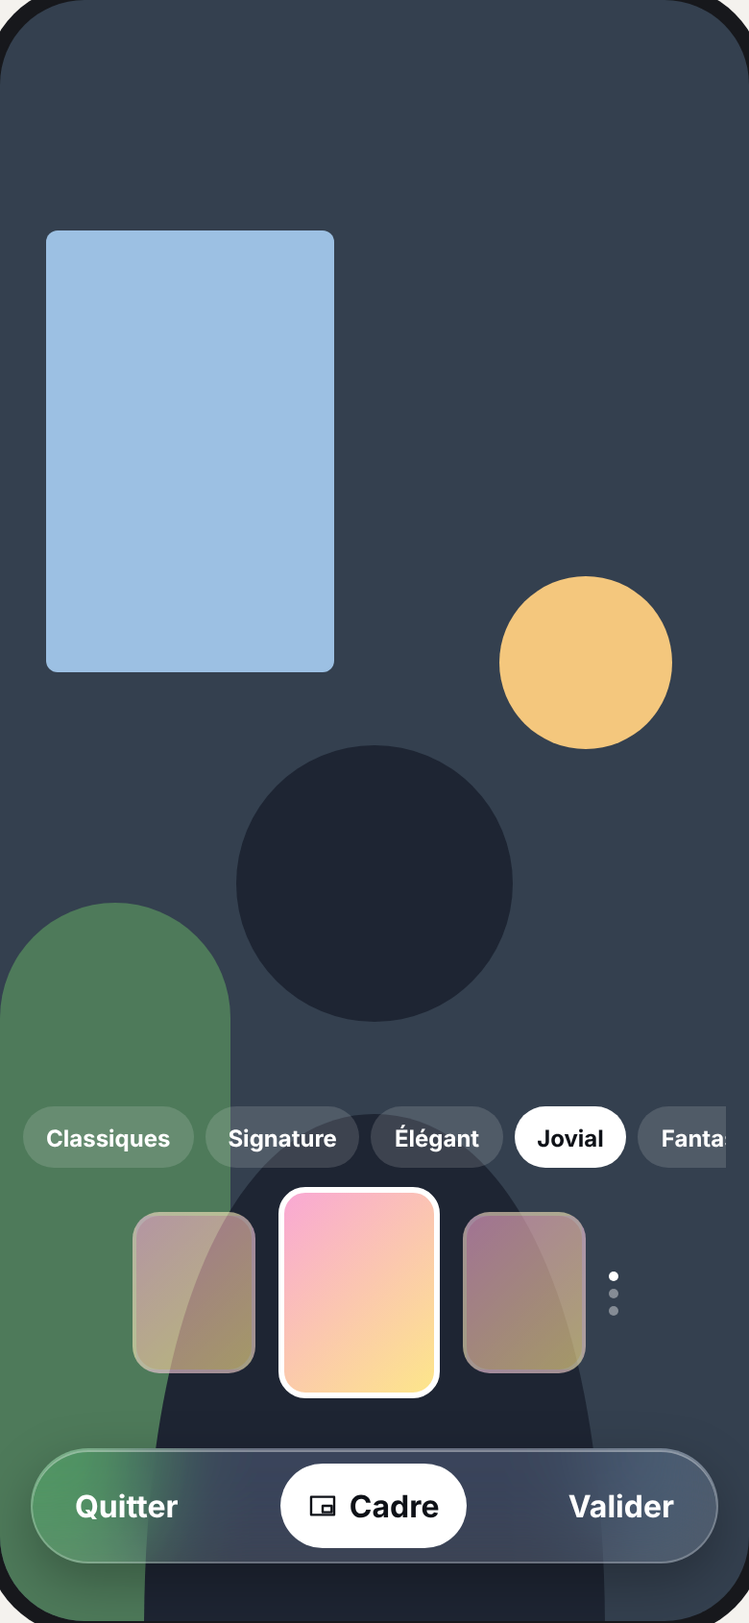
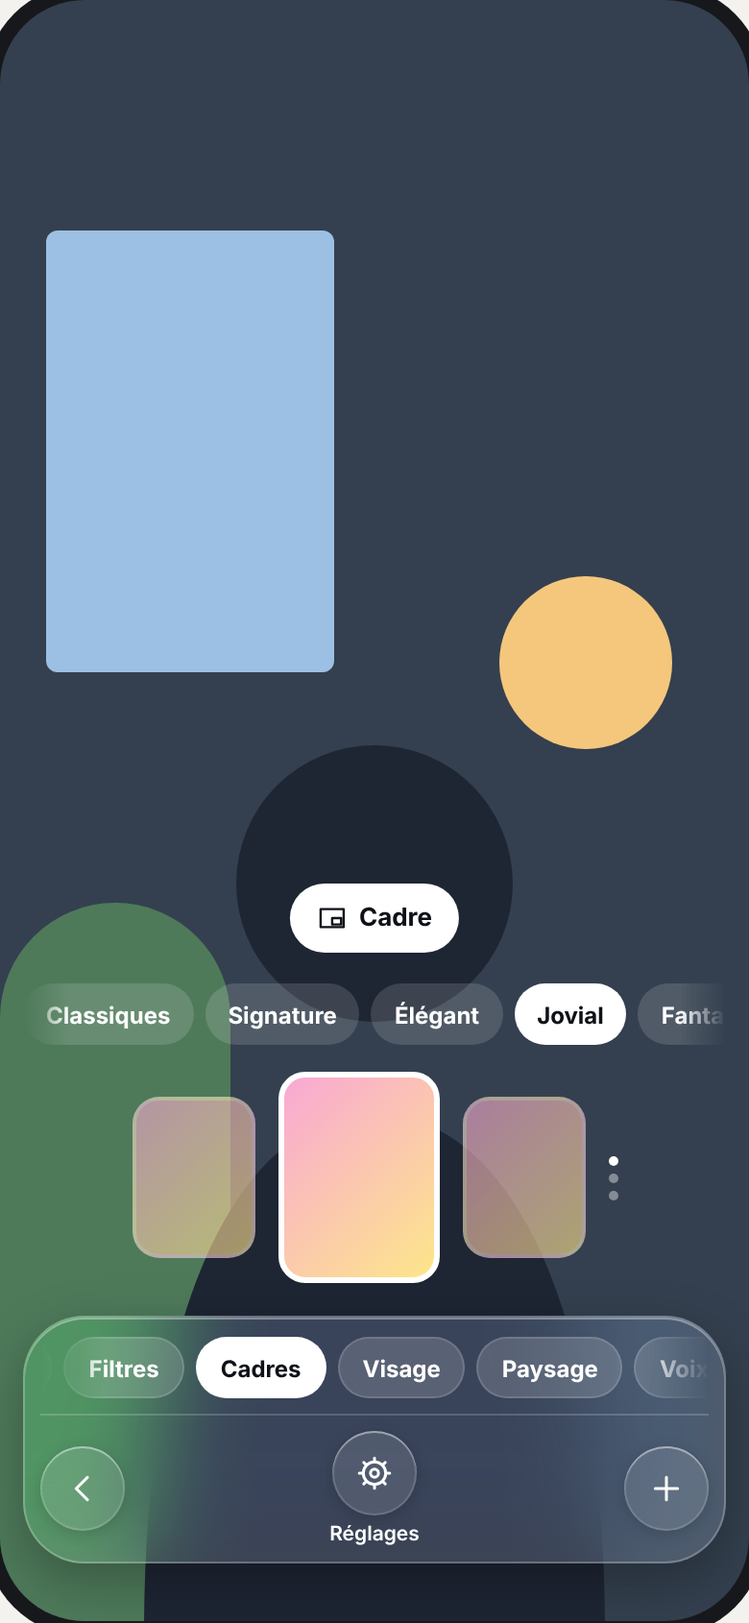
docs(planche-appels): la barre du Montage est celle d'Effets, ‹ · Réglages · (+) (#16979)
Décision porteur du 2026-11-13 : effets, filtres et cadres sont une
seule famille d'outils. Loi 14 : validation automatique, barre qui
revient au menu de base après chaque choix, pile de trois couches au
plus, appui long sur (+) pour lister et retirer un effet appliqué. La
phrase « Montage garde Quitter · Réglages · Valider » est retirée.
C1 redessinée (puces « Cadres » pressée, ‹ · Réglages · (+)), capture
régénérée par capture.mjs ; les 43 autres captures sont inchangées
au pixel près et ne sont pas réécrites.

Refs #16979

Claude-Session: https://claude.ai/code/session_015SWXf7WvNYyQX5o6rHgc69

Changed region(s): [[0.0308, 0.5231, 0.9846, 0.9538]]

diff --git a/docs/product/appels-vue-finale/planche.html b/docs/product/appels-vue-finale/planche.html
@@ -139,7 +139,7 @@ const S=[
 {id:'P5',t:'Toucher une phrase : l’original',d:'La phrase touchée déplie son original dessous, en encre secondaire. Retoucher le replie.',html:phone(scene()+head('Awa · 04:12')+self()+caps([T('awa','Tu m’entends bien ? Le son coupait tout à l’heure.',{tag:'EN → FR',orig:'Can you hear me? The sound kept cutting out earlier.'}),T('moi','Oui, c’est net maintenant.')]))},
 {id:'P6',t:'Journal pendant l’appel',d:'« Journal » ouvre TOUT l’appel, rien de tronqué : qui (sa couleur), quand, la phrase servie, l’original sous la phrase qu’on touche, dans le même ordre que la bande. Il s’ouvre DANS la pilule, à la place des sous-titres, et défile librement ; « Revenir au direct » quand on a remonté. La bascule Traduit · Original de sa tête fait passer TOUT le journal dans l’autre texte ; la bande des sous-titres reste dans ma langue. Ma vignette garde sa place en haut à droite.',html:phone(scene()+head('Awa · 04:12')+self()+journalPill(J,{live:true}))},
 {id:'P7',t:'Micro coupé',d:'Le micro barré passe en disque blanc. Micro coupé = ma parole n’est plus transcrite (#8475).',html:phone(scene()+head('Awa · 04:12')+self()+pill({micOff:true}))},
-{id:'P8',t:'Effets de ma caméra',d:'« Effets » emprunte au composer (#17406). MA caméra passe en plein écran, les autres en bandeau. Les sous-titres restent, au-dessus des looks, dans un verre sans la rangée de base (loi 11). Les looks (filtres, cadres, effets) se choisissent en surimpression sur l’image : la case au centre est choisie, à pleine taille, les voisines plus petites. La barre du bas grandit par morphisme et porte les puces qui trient les looks (Tout · Filtres · Cadres · Visage · Paysage · Voix…) : elles défilent à l’horizontale sans coupure, en s’effaçant toujours en fondu à gauche comme à droite (#17409). Le look choisi s’applique tout de suite : il n’y a pas de « Valider ». La rangée de base parle la langue du composer : ‹ revient à l’appel, Réglages (l’engrenage, légendé, distinct du glyphe d’Effets) ouvre P8b, et (+) ajoute un look par-dessus le précédent pour les cumuler. Un mode libère l’écran : l’en-tête se masque (#8578).',html:phone(`<div style="position:absolute;inset:0;background:#445B4F"></div><svg style="position:absolute;left:75px;top:260px" width="240" height="600" viewBox="0 0 240 600" aria-hidden="true"><circle cx="120" cy="110" r="72" fill="#2c3b33"/><path d="M0 600c0-200 50-330 120-330s120 130 120 330z" fill="#2c3b33"/></svg>`+`<div style="position:absolute;right:12px;top:76px;display:flex;flex-direction:column;gap:6px"><div class="tile" style="width:64px;height:86px;padding:4px;background:#6B5A48;border-color:var(--awa)"><span class="name glass" style="font-size:10px;padding:2px 6px">Awa</span></div></div><div style="position:absolute;left:0;right:0;bottom:176px;display:flex;justify-content:center;align-items:center;gap:12px">${['Aucun','Doré','Lissage','Polaroid','Ange'].map((n,i)=>`<div style="display:flex;flex-direction:column;align-items:center;gap:6px;transform:scale(${i===2?1:.78});opacity:${i===2?1:.6}"><span style="width:64px;height:64px;border-radius:${i===3?'12px':'50%'};background:${['#445B4F','#b89a5a','#7a8f84','#e9e4d8','#c9b37a'][i]};${i===2?'box-shadow:0 0 0 3px #fff;':''}"></span><span style="font-size:11px;font-weight:600">${n}</span></div>`).join('')}</div><div class="glass" style="position:absolute;left:12px;right:12px;bottom:30px;border-radius:32px;padding:10px 8px 8px;display:flex;flex-direction:column;gap:8px"><div role="group" aria-label="Trier les looks" style="overflow:hidden;-webkit-mask-image:linear-gradient(90deg,transparent 0,#000 34px,#000 calc(100% - 34px),transparent 100%);mask-image:linear-gradient(90deg,transparent 0,#000 34px,#000 calc(100% - 34px),transparent 100%)"><div style="display:flex;gap:6px;width:max-content;transform:translateX(-46px)">${['Tout','Filtres','Cadres','Visage','Paysage','Voix','Ambiances'].map((n,i)=>`<span style="height:32px;padding:0 13px;border-radius:16px;font-size:12px;font-weight:700;display:flex;align-items:center;flex-shrink:0;${i===1?'background:#fff;color:#0E1117':'background:rgba(255,255,255,.16);box-shadow:inset 0 0 0 1px rgba(255,255,255,.14)'}">${n}</span>`).join('')}</div></div><div style="height:1px;background:rgba(255,255,255,.18)"></div>${effectsRow(false)}</div>`+caps([T('awa','Ce filtre te va bien, garde-le !',{tag:'EN → FR'})],{left:12,right:12,bottom:286,bare:true}))},
+{id:'P8',t:'Effets de ma caméra',d:'« Effets » emprunte au composer (#17406). MA caméra passe en plein écran, les autres en bandeau. Les sous-titres restent, au-dessus des looks, dans un verre sans la rangée de base (loi 11). Les looks (filtres, cadres, effets) se choisissent en surimpression sur l’image : la case au centre est choisie, à pleine taille, les voisines plus petites. La barre du bas grandit par morphisme et porte les puces qui trient les looks (Tout · Filtres · Cadres · Visage · Paysage · Voix…) : elles défilent à l’horizontale sans coupure, en s’effaçant toujours en fondu à gauche comme à droite (#17409). Le look choisi s’applique tout de suite : il n’y a pas de « Valider ». La rangée de base parle la langue du composer : ‹ revient à l’appel, Réglages (l’engrenage, légendé, distinct du glyphe d’Effets) ouvre P8b, et (+) ajoute un look par-dessus le précédent pour les cumuler, trois couches au plus ; un appui long sur (+) liste les effets appliqués pour en retirer un. Une fonction choisie, la barre revient à son menu de base ; Montage (C1) a la même barre (#16979). Un mode libère l’écran : l’en-tête se masque (#8578).',html:phone(`<div style="position:absolute;inset:0;background:#445B4F"></div><svg style="position:absolute;left:75px;top:260px" width="240" height="600" viewBox="0 0 240 600" aria-hidden="true"><circle cx="120" cy="110" r="72" fill="#2c3b33"/><path d="M0 600c0-200 50-330 120-330s120 130 120 330z" fill="#2c3b33"/></svg>`+`<div style="position:absolute;right:12px;top:76px;display:flex;flex-direction:column;gap:6px"><div class="tile" style="width:64px;height:86px;padding:4px;background:#6B5A48;border-color:var(--awa)"><span class="name glass" style="font-size:10px;padding:2px 6px">Awa</span></div></div><div style="position:absolute;left:0;right:0;bottom:176px;display:flex;justify-content:center;align-items:center;gap:12px">${['Aucun','Doré','Lissage','Polaroid','Ange'].map((n,i)=>`<div style="display:flex;flex-direction:column;align-items:center;gap:6px;transform:scale(${i===2?1:.78});opacity:${i===2?1:.6}"><span style="width:64px;height:64px;border-radius:${i===3?'12px':'50%'};background:${['#445B4F','#b89a5a','#7a8f84','#e9e4d8','#c9b37a'][i]};${i===2?'box-shadow:0 0 0 3px #fff;':''}"></span><span style="font-size:11px;font-weight:600">${n}</span></div>`).join('')}</div><div class="glass" style="position:absolute;left:12px;right:12px;bottom:30px;border-radius:32px;padding:10px 8px 8px;display:flex;flex-direction:column;gap:8px"><div role="group" aria-label="Trier les looks" style="overflow:hidden;-webkit-mask-image:linear-gradient(90deg,transparent 0,#000 34px,#000 calc(100% - 34px),transparent 100%);mask-image:linear-gradient(90deg,transparent 0,#000 34px,#000 calc(100% - 34px),transparent 100%)"><div style="display:flex;gap:6px;width:max-content;transform:translateX(-46px)">${['Tout','Filtres','Cadres','Visage','Paysage','Voix','Ambiances'].map((n,i)=>`<span style="height:32px;padding:0 13px;border-radius:16px;font-size:12px;font-weight:700;display:flex;align-items:center;flex-shrink:0;${i===1?'background:#fff;color:#0E1117':'background:rgba(255,255,255,.16);box-shadow:inset 0 0 0 1px rgba(255,255,255,.14)'}">${n}</span>`).join('')}</div></div><div style="height:1px;background:rgba(255,255,255,.18)"></div>${effectsRow(false)}</div>`+caps([T('awa','Ce filtre te va bien, garde-le !',{tag:'EN → FR'})],{left:12,right:12,bottom:286,bare:true}))},
 {id:'P8b',t:'Effets : réglages',d:'« Réglages » pose, à la place de la bande de looks, un verre séparé Luminosité · Flou du fond au-dessus de la barre. La barre perd ses puces et se resserre par morphisme sur ‹ · Réglages · (+), l’engrenage en disque blanc. Looks et puces partent en fondu pendant que le panneau monte depuis la barre (≈ 200 ms) ; Réduire les animations ⇒ fondu seul. Retoucher Réglages rend looks et puces par le chemin inverse. Les sous-titres restent au-dessus, dans un verre sans rangée (loi 11), et le bandeau des autres comme en P8.',html:phone(`<div style="position:absolute;inset:0;background:#445B4F"></div><svg style="position:absolute;left:75px;top:260px" width="240" height="600" viewBox="0 0 240 600" aria-hidden="true"><circle cx="120" cy="110" r="72" fill="#2c3b33"/><path d="M0 600c0-200 50-330 120-330s120 130 120 330z" fill="#2c3b33"/></svg>`+`<div style="position:absolute;right:12px;top:76px;display:flex;flex-direction:column;gap:6px"><div class="tile" style="width:64px;height:86px;padding:4px;background:#6B5A48;border-color:var(--awa)"><span class="name glass" style="font-size:10px;padding:2px 6px">Awa</span></div></div>`+`<div class="glass deep" role="group" aria-label="Réglages de mon image" style="position:absolute;left:16px;right:16px;bottom:118px;border-radius:24px;padding:14px 16px;display:flex;flex-direction:column;gap:14px"><label style="display:flex;flex-direction:column;gap:8px;font-size:13px;font-weight:600">Luminosité<span style="height:6px;border-radius:3px;background:linear-gradient(90deg,#fff 62%,rgba(255,255,255,.25) 62%)"></span></label><label style="display:flex;justify-content:space-between;align-items:center;font-size:13px;font-weight:600">Flou du fond<span style="width:50px;height:30px;border-radius:15px;background:#34C759;position:relative"><i style="position:absolute;right:3px;top:3px;width:24px;height:24px;border-radius:50%;background:#fff"></i></span></label></div><div class="glass" style="position:absolute;left:16px;right:16px;bottom:30px;border-radius:32px;padding:6px 8px">${effectsRow(true)}</div>`+caps([T('awa','Ce filtre te va bien, garde-le !',{tag:'EN → FR'})],{left:12,right:12,bottom:252,bare:true}))},
 ]},
 {h:'Duo audio, portrait',lead:'Sans vidéo, la personne au centre ; mêmes rails, même pilule. « Caméra » dans le rail gauche bascule l’appel en vidéo.',b:[
@@ -173,7 +173,7 @@ const S=[
 {id:'S2',t:'Retour dans l’appel pendant le partage',d:'Le bandeau « Vous partagez votre écran · Arrêter » reste sous l’en-tête ; mon partage ne passe jamais à la une chez moi.',html:phone(scene()+head('Awa · 04:12')+`<div class="glass" style="position:absolute;left:12px;right:12px;top:72px;height:52px;border-radius:26px;display:flex;align-items:center;justify-content:space-between;padding:0 6px 0 16px;background:rgba(217,45,32,.35)"><span style="font-size:14px;font-weight:600;display:flex;gap:8px;align-items:center">${ic('screen',16,'#fff')}Vous partagez votre écran</span><span style="height:40px;padding:0 14px;border-radius:20px;background:#fff;color:#B42318;font-size:13px;font-weight:700;display:flex;align-items:center">Arrêter</span></div>`+self({top:136})+pill())}
 ]},
 {h:'Cadres en direct (duo vidéo)',lead:'Un cadre habille les deux vidéos pendant tout l’appel. Je le choisis dans Montage, il s’applique chez moi et se PROPOSE à l’autre, qui l’accepte ou le refuse. Il tombe si l’appel passe à trois.',b:[
-{id:'C1',t:'Choisir un cadre',d:'Ambiances en puces, carrousel des cadres, balayage vertical pour ses déclinaisons, puis l’option « Cadre » : « Garde ce cadre autour des deux vidéos pendant tout l’appel, et le propose à votre correspondant ».',html:phone(scene()+`<div style="position:absolute;left:12px;right:12px;bottom:236px;display:flex;gap:6px;overflow:hidden">${['Classiques','Signature','Élégant','Jovial','Fantastique'].map((n,i)=>`<span style="height:32px;padding:0 12px;border-radius:16px;font-size:12px;font-weight:700;display:flex;align-items:center;flex-shrink:0;${i===3?'background:#fff;color:#0E1117':'background:rgba(255,255,255,.14)'}">${n}</span>`).join('')}</div><div style="position:absolute;left:0;right:0;bottom:116px;display:flex;justify-content:center;align-items:center;gap:12px">${[0,1,2].map(i=>`<span style="width:${i===1?84:64}px;height:${i===1?110:84}px;border-radius:14px;border:${i===1?'3px solid #fff':'2px solid rgba(255,255,255,.4)'};background:linear-gradient(135deg,#f9a8d4,#fde68a);opacity:${i===1?1:.6}"></span>`).join('')}<span style="display:flex;flex-direction:column;gap:4px"><i style="width:5px;height:5px;border-radius:50%;background:#fff"></i><i style="width:5px;height:5px;border-radius:50%;background:rgba(255,255,255,.4)"></i><i style="width:5px;height:5px;border-radius:50%;background:rgba(255,255,255,.4)"></i></span></div><div class="glass" style="position:absolute;left:16px;right:16px;bottom:30px;height:60px;border-radius:30px;display:flex;justify-content:space-between;align-items:center;padding:0 8px"><span style="padding:0 14px;font-weight:700">Quitter</span><span style="height:44px;padding:0 14px;border-radius:22px;background:#fff;color:#0E1117;font-weight:700;display:flex;align-items:center;gap:6px">${ic('pip',16,'#0E1117')}Cadre</span><span style="padding:0 14px;font-weight:700">Valider</span></div>`)},
+{id:'C1',t:'Choisir un cadre',d:'Montage parle la langue d’Effets (#16979) : filtres, cadres et effets sont UNE famille d’outils, avec la même barre et la même navigation qu’en P8. La barre porte les puces qui trient les looks, « Cadres » pressée, puis ‹ · Réglages · (+). Au-dessus, les ambiances en puces et le carrousel des cadres, balayage vertical pour ses déclinaisons. Le cadre touché s’applique tout de suite : il n’y a pas de « Valider ». L’option « Cadre », pressée en blanc, garde ce cadre autour des deux vidéos pendant tout l’appel et le propose à votre correspondant. Une fonction choisie, la barre revient à son menu de base. (+) empile un effet par-dessus, trois couches au plus ; un appui long sur (+) liste les effets appliqués pour en retirer un. ‹ revient à l’appel, les effets gardés.',html:phone(scene()+`<span style="position:absolute;left:50%;transform:translateX(-50%);bottom:348px;height:36px;padding:0 14px;border-radius:18px;background:#fff;color:#0E1117;font-size:13px;font-weight:700;display:flex;align-items:center;gap:6px" role="switch" aria-checked="true" aria-label="Cadre : le garder autour des deux vidéos et le proposer">${ic('pip',16,'#0E1117')}Cadre</span><div style="position:absolute;left:12px;right:12px;bottom:300px;display:flex;gap:6px;overflow:hidden;-webkit-mask-image:linear-gradient(90deg,transparent 0,#000 24px,#000 calc(100% - 24px),transparent 100%);mask-image:linear-gradient(90deg,transparent 0,#000 24px,#000 calc(100% - 24px),transparent 100%)">${['Classiques','Signature','Élégant','Jovial','Fantastique'].map((n,i)=>`<span style="height:32px;padding:0 12px;border-radius:16px;font-size:12px;font-weight:700;display:flex;align-items:center;flex-shrink:0;${i===3?'background:#fff;color:#0E1117':'background:rgba(255,255,255,.14)'}">${n}</span>`).join('')}</div><div style="position:absolute;left:0;right:0;bottom:176px;display:flex;justify-content:center;align-items:center;gap:12px">${[0,1,2].map(i=>`<span style="width:${i===1?84:64}px;height:${i===1?110:84}px;border-radius:14px;border:${i===1?'3px solid #fff':'2px solid rgba(255,255,255,.4)'};background:linear-gradient(135deg,#f9a8d4,#fde68a);opacity:${i===1?1:.6}"></span>`).join('')}<span style="display:flex;flex-direction:column;gap:4px"><i style="width:5px;height:5px;border-radius:50%;background:#fff"></i><i style="width:5px;height:5px;border-radius:50%;background:rgba(255,255,255,.4)"></i><i style="width:5px;height:5px;border-radius:50%;background:rgba(255,255,255,.4)"></i></span></div><div class="glass" style="position:absolute;left:12px;right:12px;bottom:30px;border-radius:32px;padding:10px 8px 8px;display:flex;flex-direction:column;gap:8px"><div role="group" aria-label="Trier les looks" style="overflow:hidden;-webkit-mask-image:linear-gradient(90deg,transparent 0,#000 34px,#000 calc(100% - 34px),transparent 100%);mask-image:linear-gradient(90deg,transparent 0,#000 34px,#000 calc(100% - 34px),transparent 100%)"><div style="display:flex;gap:6px;width:max-content;transform:translateX(-46px)">${['Tout','Filtres','Cadres','Visage','Paysage','Voix','Ambiances'].map((n,i)=>`<span style="height:32px;padding:0 13px;border-radius:16px;font-size:12px;font-weight:700;display:flex;align-items:center;flex-shrink:0;${i===2?'background:#fff;color:#0E1117':'background:rgba(255,255,255,.16);box-shadow:inset 0 0 0 1px rgba(255,255,255,.14)'}">${n}</span>`).join('')}</div></div><div style="height:1px;background:rgba(255,255,255,.18)"></div>${effectsRow(false)}</div>`)},
 {id:'C2',t:'Chez l’autre : la proposition',d:'Une carte de verre en haut ; rien ne change chez lui tant qu’il n’a pas accepté.',html:phone(scene()+head('Moi · 04:12')+self()+`<div class="glass deep" style="position:absolute;left:12px;right:12px;top:150px;border-radius:22px;padding:14px;display:flex;flex-direction:column;gap:12px"><span style="display:flex;gap:10px;align-items:center;font-size:14px;font-weight:600">${ic('pip',20,'#fff')}Awa vous propose le cadre « Jovial »</span><div style="display:flex;gap:8px"><span style="flex:1;height:44px;border-radius:22px;background:rgba(255,255,255,.16);display:flex;align-items:center;justify-content:center;font-weight:700">Non merci</span><span style="flex:1;height:44px;border-radius:22px;background:linear-gradient(90deg,#6366F1,#A855F7);display:flex;align-items:center;justify-content:center;font-weight:700">Appliquer</span></div></div>`+pill())},
 {id:'C3',t:'Cadre appliqué',d:'Le cadre entoure les deux vidéos (il ne prend aucun toucher). Chez qui l’a proposé, une capsule dit « Moi a appliqué votre cadre » ou « … garde son affichage ».',html:phone(`<div style="position:absolute;inset:0;background:linear-gradient(135deg,#f9a8d4,#fde68a)"></div><div style="position:absolute;inset:22px;border-radius:30px;overflow:hidden;background:#34404F">${scene()}</div>`+head('Awa · 04:12')+`<span class="chip glass" style="position:absolute;left:50%;transform:translateX(-50%);top:84px;font-size:13px">Awa a appliqué votre cadre</span>`+self({top:140,right:34})+pill())}
 ]},

diff --git a/docs/product/appels-vue-finale.md b/docs/product/appels-vue-finale.md
@@ -90,14 +90,21 @@
     - Effets est un mode plein écran qui parle la langue du composer (directive porteur du 2026-11-10, #17409) : ‹ · Réglages · (+). Réglages porte un engrenage et sa légende « Réglages », pour ne pas se confondre avec le glyphe d'Effets ; il ouvre P8b, où il passe en disque blanc.
     - **P8b, l'arrivée des réglages** (famille 2, 2026-11-11) : le panneau Luminosité · Flou du fond est un VERRE SÉPARÉ, posé au-dessus de la barre, à la place de la bande de looks. La barre perd sa rangée de puces (Filtres · Cadres · Visage…) et se resserre par morphisme sur ‹ · Réglages · (+). Les looks et les puces partent en fondu pendant que le panneau monte depuis la barre en fondu, en ≈ 200 ms (transformation et opacité) ; « Réduire les animations » ne garde que le fondu. Retoucher « Réglages » rend la bande de looks et ses puces par le chemin inverse. Les sous-titres restent au-dessus de tout, dans un verre sans rangée (loi 11), et le bandeau des autres reste comme en P8.
     - Le look touché s'applique tout de suite, sans « Valider » ; ‹ revient à l'appel ; (+) ajoute un look par-dessus le précédent, pour les cumuler ; « Aucun » rend mon image d'origine. Le choix se fait dans les looks du composer (loi 9).
-    - Montage garde Quitter · Réglages · Valider tant que le porteur ne l'a pas aligné ; « Quitter » rend mon image d'avant. Un mode libère l'écran : l'en-tête se masque (#8578, confirmé par le porteur le 2026-11-09, #17344).
+    - **Effets, filtres et cadres sont UNE famille d'outils, avec la même barre et la même navigation, Montage compris** (décision porteur du 2026-11-13, #16979 ; P8, C1). Elle supplante la barre Quitter · Cadre · Valider du Montage.
+      - La barre est partout `‹ · Réglages · (+)`, sous les puces qui trient les looks. En Montage, la puce « Cadres » est pressée et le carrousel des cadres prend la place de la bande de looks.
+      - **La validation est automatique** : il n'y a de « Valider » nulle part. Ce qui est touché s'applique aussitôt, et ‹ revient à l'appel en gardant les effets appliqués.
+      - **Après le choix d'une fonction, la barre revient à son menu de base** : un look, un cadre ou un réglage choisi, ce que la fonction avait ouvert se referme par le chemin inverse (loi 17) et la barre retrouve ses puces et `‹ · Réglages · (+)`.
+      - **Au plus trois couches d'effet s'empilent** (un cadre, un filtre, une déformation…). (+) en ajoute une par-dessus les autres ; avec trois couches, (+) n'en ajoute plus de quatrième, le dit à son étiquette d'accessibilité et garde son appui long.
+      - **Un appui long sur (+) montre la liste des effets appliqués**, de la couche du dessus à celle du dessous, chacun avec de quoi l'annuler. En annuler un retire cette couche seule, les autres gardent leur ordre ; la liste vide se referme. Le lecteur d'écran offre la même liste par une action nommée sur (+), sans appui long.
+      - La pile est une loi PURE, la même sur les trois plateformes (ajouter, retirer, plafond de trois, ordre) : TS, Swift et Kotlin en sont des miroirs.
+    - Un mode libère l'écran : l'en-tête se masque (#8578, confirmé par le porteur le 2026-11-09, #17344).
 15. **À la une.**
     - Toucher une vignette la met à la une, choix local jamais imposé. Si les contrôles sont cachés, le toucher les rend d'abord.
     - La vignette à la une n'a pas de badge : une capsule en haut à droite offre « Revenir à la grille » et « Plein écran ».
     - Le bandeau des autres est en bas en portrait, en colonne en paysage.
     - Pincer zoome sur un écran partagé jusqu'à 4×, deux tapes reviennent à 1×.
 16. **Cadres en direct, en duo vidéo.**
-    - Je choisis un cadre dans Montage (ambiances, carrousel, déclinaisons par balayage vertical, option « Cadre »). Il s'applique chez moi et se PROPOSE à l'autre (« Non merci » · « Appliquer »).
+    - Je choisis un cadre dans Montage (ambiances, carrousel, déclinaisons par balayage vertical, option « Cadre »), dont la barre est celle d'Effets, `‹ · Réglages · (+)`, sans « Valider » (loi 14, #16979). Il s'applique chez moi et se PROPOSE à l'autre (« Non merci » · « Appliquer »).
     - Le proposeur apprend la réponse en une capsule.
     - Le cadre tombe si l'appel passe à trois.
 17. **Rien n'apparaît ni ne disparaît d'un coup** (directive porteur du 2026-11-10, #17406).
@@ -131,6 +138,8 @@
 |---|---|---|---|
 | ![G1](appels-vue-finale/vues/G1.png) | ![G2](appels-vue-finale/vues/G2.png) | ![G3](appels-vue-finale/vues/G3.png) | ![G4](appels-vue-finale/vues/G4.png) |
 
+Dans Effets (P8, P8b) comme dans Montage (C1), la barre est `‹ · Réglages · (+)` : ce qui est touché s'applique, la barre revient à son menu de base après chaque choix, (+) empile jusqu'à trois couches et son appui long liste les effets appliqués pour en retirer un (loi 14, #16979).
+
 | P8b · Effets : réglages |
 |---|
 | ![P8b](appels-vue-finale/vues/P8b.png) |
@@ -148,6 +157,8 @@
 | ![S1](appels-vue-finale/vues/S1.png) | ![S2](appels-vue-finale/vues/S2.png) |
 
 ### Cadres en direct
+
+C1 a la barre d'Effets (P8) : les puces, « Cadres » pressée, puis `‹ · Réglages · (+)`. Le cadre touché s'applique aussitôt, l'option « Cadre » le garde pour les deux et le propose ; un appui long sur (+) liste les effets appliqués, trois au plus, pour en retirer un (loi 14, #16979).
 
 | C1 · Choisir un cadre | C2 · La proposition chez l'autre | C3 · Cadre appliqué |
 |---|---|---|
@@ -242,7 +253,7 @@ Ce tableau est un compte rendu daté. Les lignes du chantier #17329 (Liquid Glas
 | P8b : panneau Luminosité · Flou du fond en verre séparé au-dessus de la barre ‹ · Réglages · (+) qui se resserre, engrenage légendé (lois 14, 17) | à faire, #17580 ouverte, aucune PR au relevé | fusionné, #17553 (#17552 fermée) | fusionné, #17565 (#17564 fermée) |
 | Partage lancé ⇒ appel réduit en capsule (loi 12) | livré (#16664) | livré (#16664) | livré (#16664) ; vignette vidéo flottante de P18, #16953 |
 | Capture visible chez tous et gardée au journal (loi 13) | livré (#16709) : capsule R1, ligne datée au journal vivant, au bandeau et au journal d'après l'appel ; en disposition audio la capsule reste dans la rangée d'alertes | livré (#16709) : capsule R1 en audio comme en vidéo, ligne au journal vivant et d'après l'appel | en partie (#16709) : sorte de capture sur le fil et lignes au journal d'après l'appel ; capsule R1 en direct et détection locale, #16981 |
-| Cadres en direct (loi 16) | livré dans le code pour l'appel à deux (#16943) ; groupe, #12313 ; disparition de ma vignette en C3 à trancher, #16974 ; disposition de la barre C1, #16979 ; pas de suspension au mouvement ni à la chauffe | livré ; clés `call.liveFrame.*` sans traduction pt | le cadre tombe quand l'appel passe à trois (#16952) ; à vérifier sur capture |
+| Cadres en direct (loi 16) | livré dans le code pour l'appel à deux (#16943) ; groupe, #12313 ; disparition de ma vignette en C3 à trancher, #16974 ; barre C1 `‹ · Réglages · (+)`, pile de trois couches et appui long sur (+), tranchés le 2026-11-13 (#16979), à porter sur les trois plateformes ; pas de suspension au mouvement ni à la chauffe | livré ; clés `call.liveFrame.*` sans traduction pt | le cadre tombe quand l'appel passe à trois (#16952) ; à vérifier sur capture |
 | Journal en colonne sur grand écran (W1, W2) | livré dans le code (#16942) ; marges latérales de W2 plus étroites que la référence | sans objet (iPad : à trancher) | sans objet (tablette : #15640) |
 | Vidéo entrante avec aperçu et « Sans vidéo » (P17) | livré dans le code (#16944) ; ordre de l'en-tête, #16978 | livré dans le code (#16945, ouverte jusqu'à la CI et la capture au simulateur) ; style de « Activer le son » à trancher (#8627) | « Sans vidéo » livré dans le code (#16952) ; barre micro et caméra et aperçu de ma caméra, #16949 |
 | Médaillon de la caméra de qui partage (P15, L5) | à vérifier | à vérifier | reporté, demande une seconde piste vidéo, #8404 |
